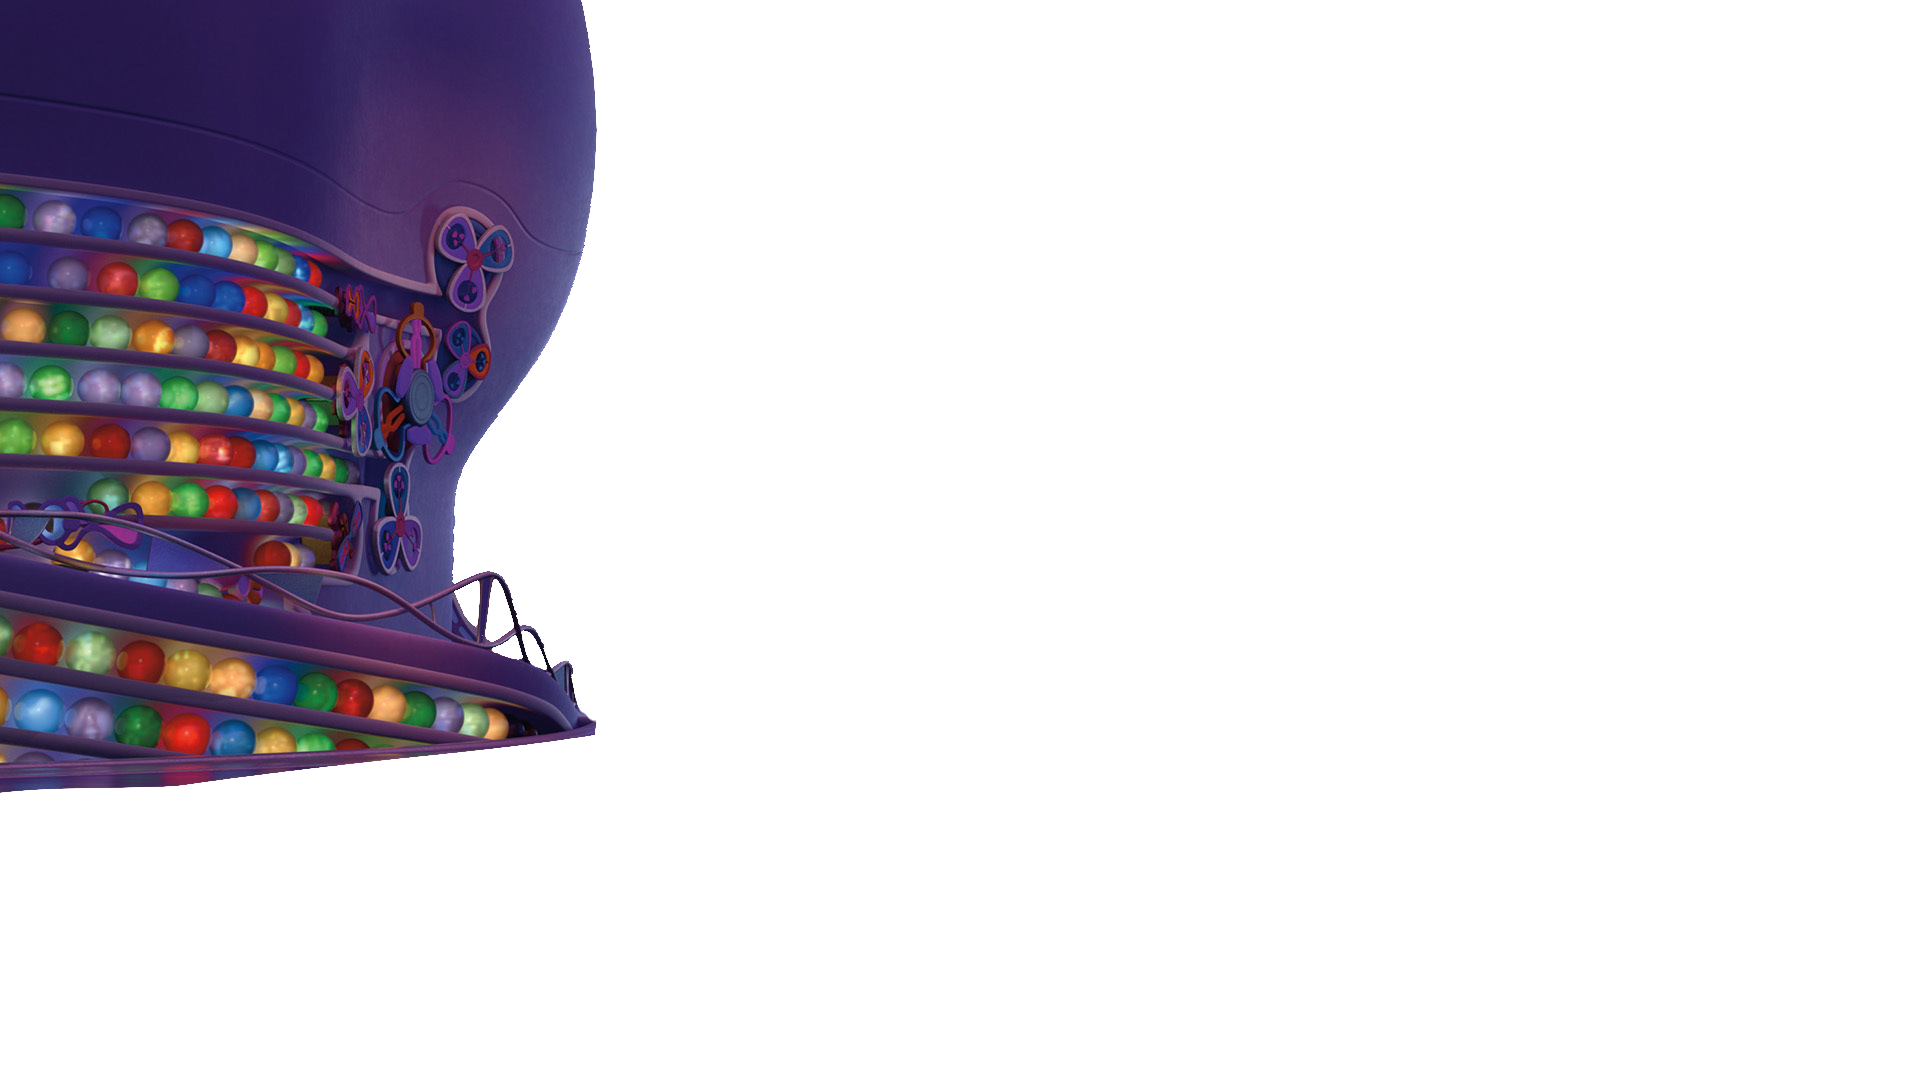
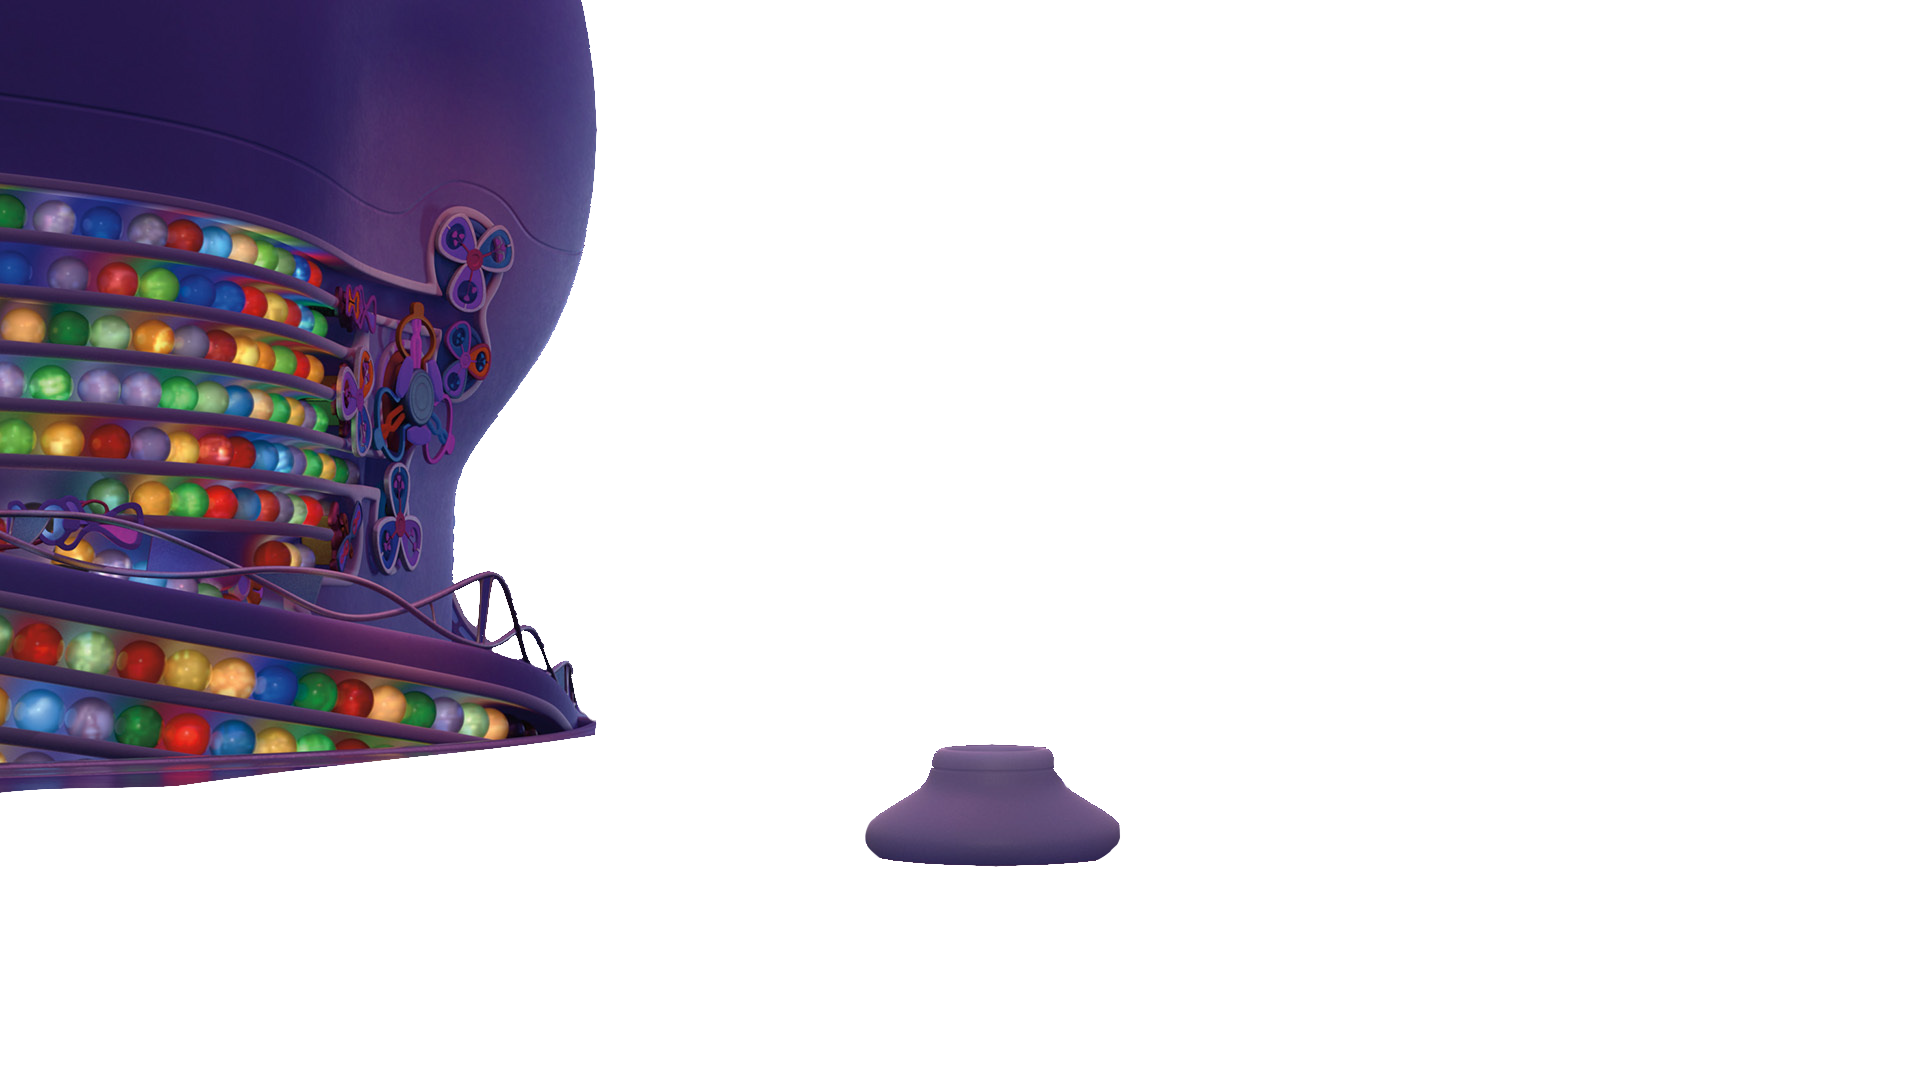
04 - small edited on the second layer of the background to integrate Envie, added anxiety without hair on the transparent variant, too hard to properly make it with hair

Changed region(s): [[0.4375, 0.6722, 0.5938, 0.825]]

diff --git a/04-creative-development/src/app/page.tsx b/04-creative-development/src/app/page.tsx
@@ -63,6 +63,15 @@ export default function Home() {
       <div className="absolute z-1 top-100 left-310">
         <FlipCard tranparentImage="/img/ennui.png" fullImage="/img/ennui.jpg" name="Ennui" />
       </div>
+
+      <div className="absolute z-1 top-120 left-215 hover:z-20">
+        <FlipCard tranparentImage="/img/envie.png" fullImage="/img/envie.jpg" name="Envie" />
+      </div>
+
+      <div className="absolute z-20 top-110 left-10">
+        <FlipCard tranparentImage="/img/anxiete.png" fullImage="/img/anxiete.jpg" name="Anxiété" />
+      </div>
+
       <canvas id="canvas-left" className="absolute z-10 pointer-events-none"></canvas>
     </div>
   );
